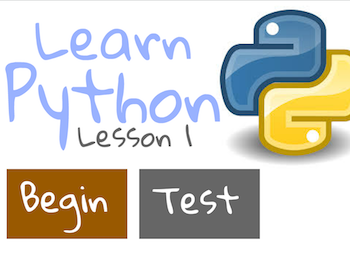
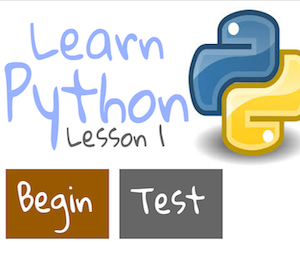
image size

diff --git a/code_games/templates/code_games/game_list.html b/code_games/templates/code_games/game_list.html
@@ -4,7 +4,7 @@
         <div class="post">
             {% if game.image != 'Null' %}
             <a href="{% url 'game_single' pk=game.pk %}">
-                <img src="/static/css/images/{{game.image}}" style="width:640px;height:228px;">
+                <img src="/static/css/images/{{game.image}}" style="width:350px;height:260px;">
             </a>
             {% endif %}
             <div class="date">
